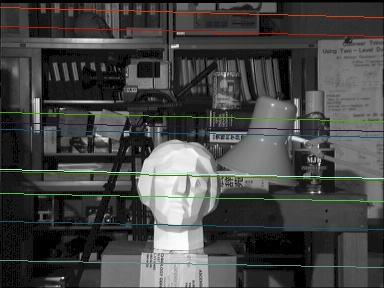
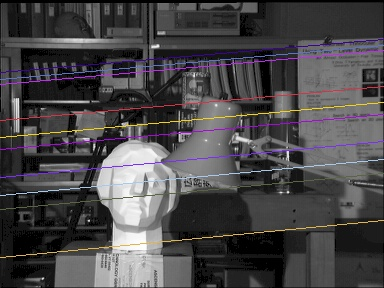
Updated epiline evaluation approach, epilines will have same colors on both sides

diff --git a/Project 2/Task2/main.py b/Project 2/Task2/main.py
@@ -6,6 +6,7 @@ import random
 
 UBIT = 'ameenmoh'
 np.random.seed(sum([ord(c) for c in UBIT]))
+random.seed(sum([ord(c) for c in UBIT]))
 
 OUTPUT_DIR = "outputs/"
 img_left_name = "./tsucuba_left.png"
@@ -87,46 +88,54 @@ def _get_fundamental_matrix(good_matches, keypoint_1, keypoint_2, F_=True):
     return F, mask, source, dest
 
 
-def drawlines(img1, img2, lines, pts1, pts2):
-    """ img1 - image on which we draw the epilines for the points in img2
-        lines - corresponding epilines 
+def drawlines(img1, img2, lines, pts1, pts2, colorArr):
+    """
+    img1 - image on which we draw the epilines for the points in img2
+    lines - corresponding epilines
     """
     r, c = img1.shape
     img1 = cv.cvtColor(img1, cv.COLOR_GRAY2BGR)
     img2 = cv.cvtColor(img2, cv.COLOR_GRAY2BGR)
+    color_counter = 0  # For color counter
     for r, pt1, pt2 in zip(lines, pts1, pts2):
-        color = tuple(np.random.randint(0, 255, 3).tolist())
+        color = colorArr[color_counter]
+        color_counter += 1
         x0, y0 = map(int, [0, -r[2]/r[1]])
         x1, y1 = map(int, [c, -(r[2]+r[0]*c)/r[1]])
         img1 = cv.line(img1, (x0, y0), (x1, y1), color, 1)
-        img1 = cv.circle(img1, tuple(pt1), 5, color, -1)
-        # img2 = cv.circle(img2, tuple(pt2), 5, color, -1)
-    return(img1, img2)
+    return img1, img2
 
 
-def _draw_inlier_matches(img1_g, img2_g, good_matches, keypoint_1, keypoint_2):
+def _draw_inlier_matches(img1_g, img2_g, mask, fundamental, src_pts, dst_pts):
     """
     """
-    good_matches = random.sample(good_matches, 10)
-    F, inliers, pts1, pts2 = _get_fundamental_matrix(
-        good_matches, keypoint_1, keypoint_2, False)
-    # Find epilines corresponding to points in right image (second image) and
-    # drawing its lines on left image
-    lines1 = cv.computeCorrespondEpilines(pts2.reshape(-1, 1, 2), 2, F)
-    lines1 = lines1.reshape(-1, 3)
-    img5, img6 = drawlines(img1_g, img2_g, lines1, pts1, pts2)
+    # Inlier points filtering from given set of src/dest points
+    dest_pts, src_pts = dst_pts[mask.ravel() == 1], src_pts[mask.ravel() == 1]
+    # print(dest_pts.shape, src_pts.shape)
 
+    # Select random 10 points in the inlier points
+    r_ = np.random.randint(0, src_pts.shape[0], 10)
+
+    dest_pts = np.asarray([dest_pts[i] for i in r_])
+    src_pts = np.asarray([src_pts[i] for i in r_])
+
+    lines1 = cv.computeCorrespondEpilines(
+        src_pts.reshape(-1, 1, 2), 2, fundamental).reshape(-1, 3)
+
+    # Select Random 10 colors for the epilines in left and right images
+    random_col_list = [tuple(np.random.randint(
+        0, 255, 3).tolist()) for _ in dest_pts]
+
+    img5, img6 = drawlines(img1_g, img2_g, lines1,
+                           dest_pts, src_pts, random_col_list)
     # Find epilines corresponding to points in left image (first image) and
     # drawing its lines on right image
-    lines2 = cv.computeCorrespondEpilines(pts1.reshape(-1, 1, 2), 1, F)
-    lines2 = lines2.reshape(-1, 3)
-    img3, img4 = drawlines(img2_g, img1_g, lines2, pts2, pts1)
-
-    # plt.subplot(121), plt.imshow(img5)
-    _save('task2_epi_right.jpg', img5)
-    # plt.subplot(122), plt.imshow(img3)
+    lines2 = cv.computeCorrespondEpilines(
+        dest_pts.reshape(-1, 1, 2), 1, fundamental).reshape(-1, 3)
+    img3, img4 = drawlines(img2_g, img1_g, lines2,
+                           src_pts, dest_pts, random_col_list)
+    _save('task2_epi_right.jpg', img3)
     _save('task2_epi_left.jpg', img3)
-
 
 def _draw_disparity_map(img1, img2):
     """
@@ -157,19 +166,19 @@ if __name__ == '__main__':
 
     sift_obj = cv.xfeatures2d.SIFT_create()
 
-    # # Part 1
-    # keypoint_1, descriptor_1, keypoint_2, descriptor_2 = _get_SIFT_keypoints(
-    #     sift_obj, img1, img2, img1_g, img2_g)
+    # Part 1
+    keypoint_1, descriptor_1, keypoint_2, descriptor_2 = _get_SIFT_keypoints(
+        sift_obj, img1, img2, img1_g, img2_g)
 
-    # good_matches = _draw_match_keypoints(
-    #     sift_obj, img1_g, keypoint_1, descriptor_1, img2_g, keypoint_2, descriptor_2)
+    good_matches = _draw_match_keypoints(
+        sift_obj, img1_g, keypoint_1, descriptor_1, img2_g, keypoint_2, descriptor_2)
 
-    # # Part 2
-    # F_Matrix, inliers, source, dest = _get_fundamental_matrix(
-    #     good_matches, keypoint_1, keypoint_2)
+    # Part 2
+    F_Matrix, mask, source, dest = _get_fundamental_matrix(
+        good_matches, keypoint_1, keypoint_2)
 
-    # # Part 3 : Inlier Epilines for the 2 images
-    # _draw_inlier_matches(img1_g, img2_g, good_matches, keypoint_1, keypoint_2)
+    # Part 3 : Inlier Epilines for the 2 images
+    _draw_inlier_matches(img1_g, img2_g, mask, F_Matrix, source, dest)
 
     # Part 4 : Draw Disparity Map
     _draw_disparity_map(img1_g, img2_g)
